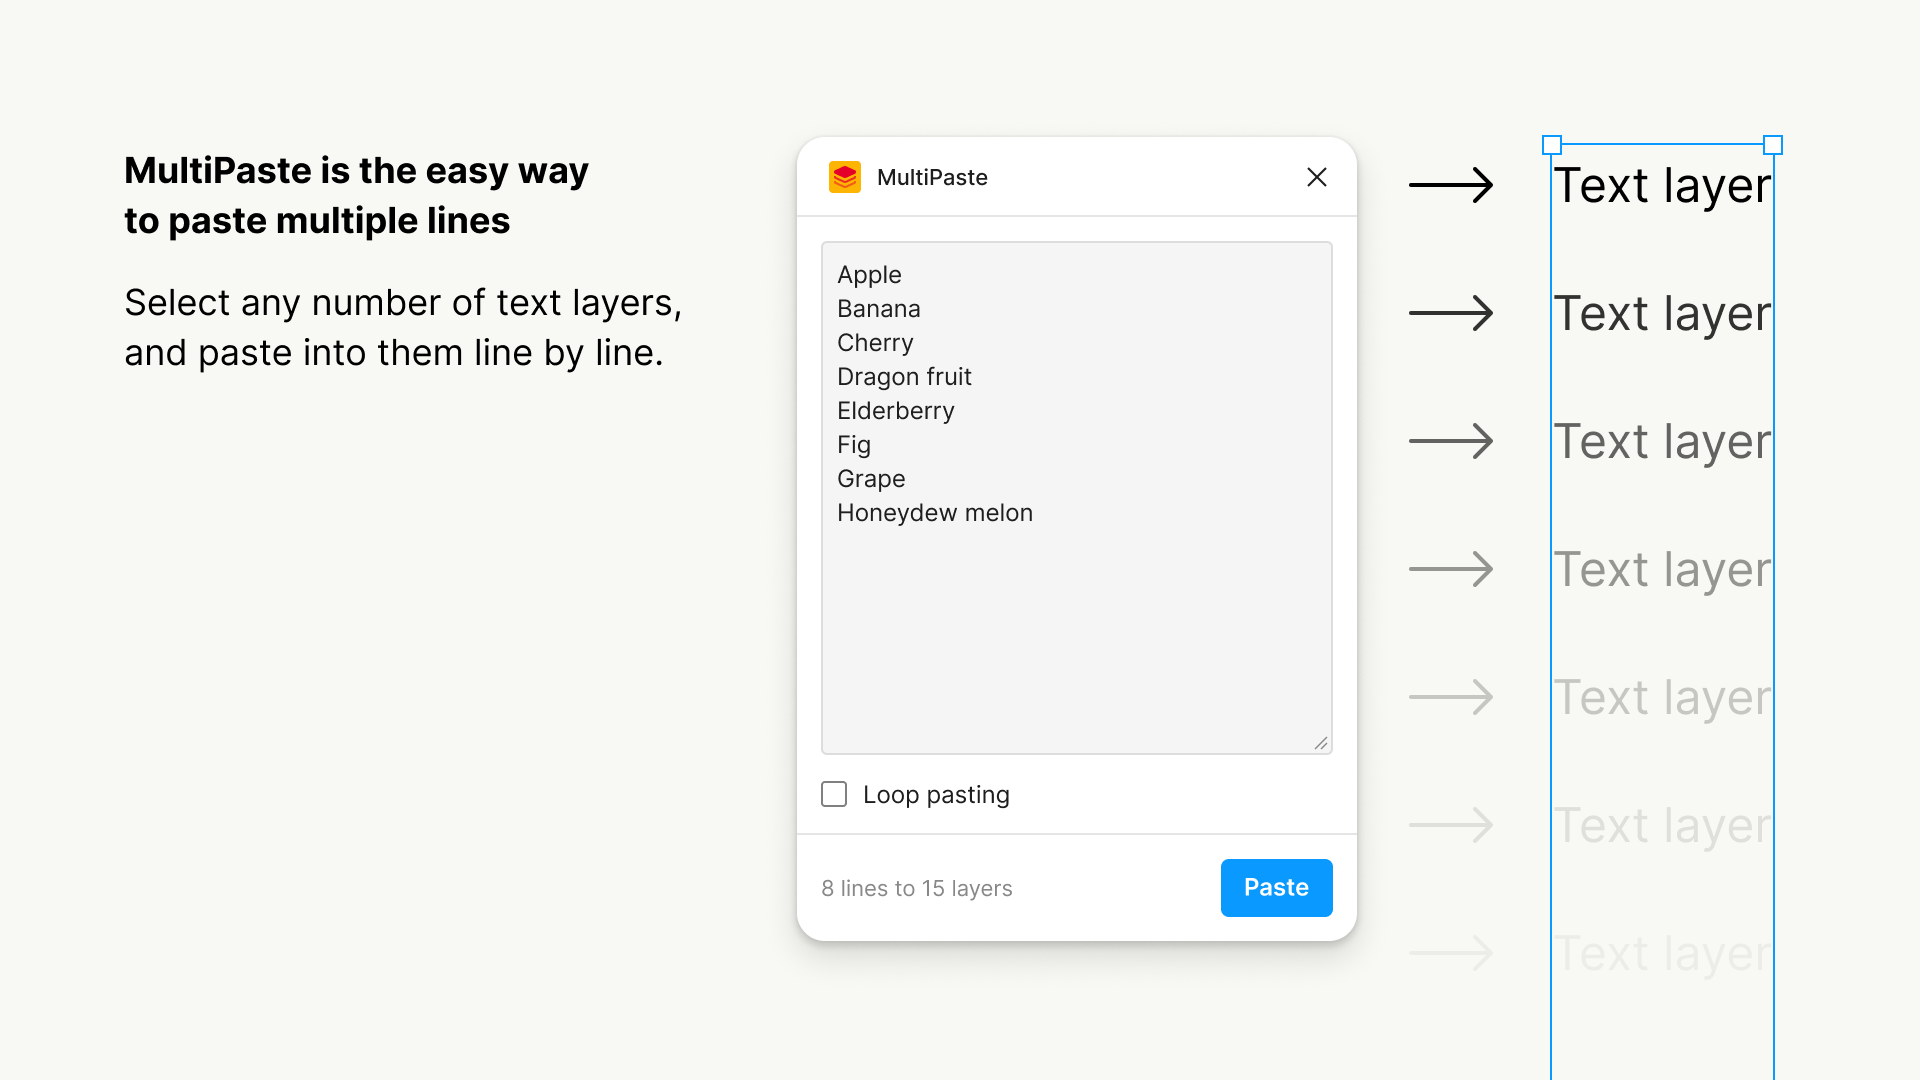
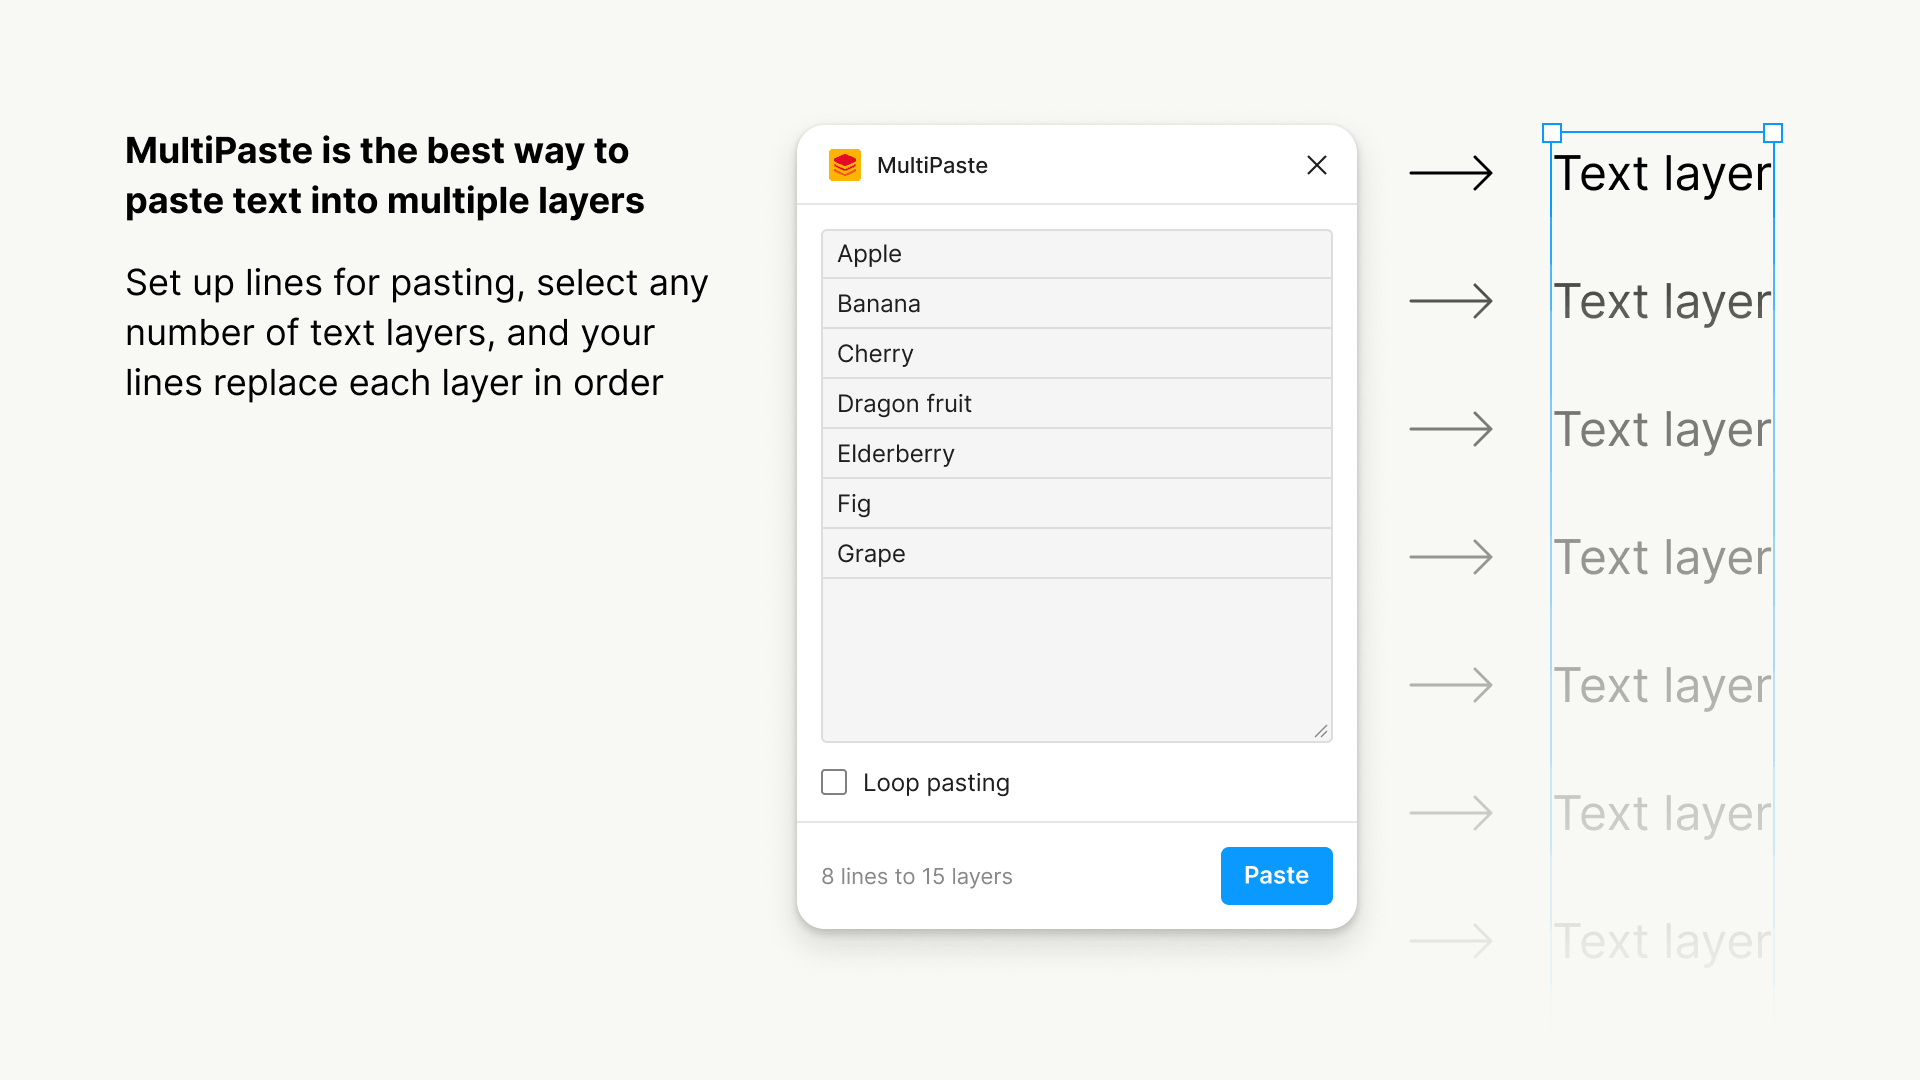
docs(multipaste): refresh README and preview

diff --git a/plugins/MultiPaste/README.md b/plugins/MultiPaste/README.md
@@ -1,11 +1,10 @@
 # MultiPaste
 
-Paste lines of text into selected Figma text layers, in Figma's selection order.
+Paste lines of text into selected text layers, in selection order.
 
-Enable looping to repeat the lines across the layer selection. 
+Enable looping to repeat the lines across the layer selection.
 
 ![Preview](preview.png)
-
 
 ## Build and import
 
@@ -15,4 +14,4 @@ Requires Node.js, npm, and the Figma desktop app.
 
 ## Develop
 
-`npm run watch` for TypeScript changes to rebuild automatically. After saving changes to the code or UI, close and reopen the plugin in Figma. Run `npm run typecheck` to check the TypeScript without emitting JavaScript.
+`npm run watch` for code changes to rebuild automatically. After saving changes to the code or UI, close and reopen the plugin in Figma. Run `npm run typecheck` to check the TypeScript without emitting JavaScript.
